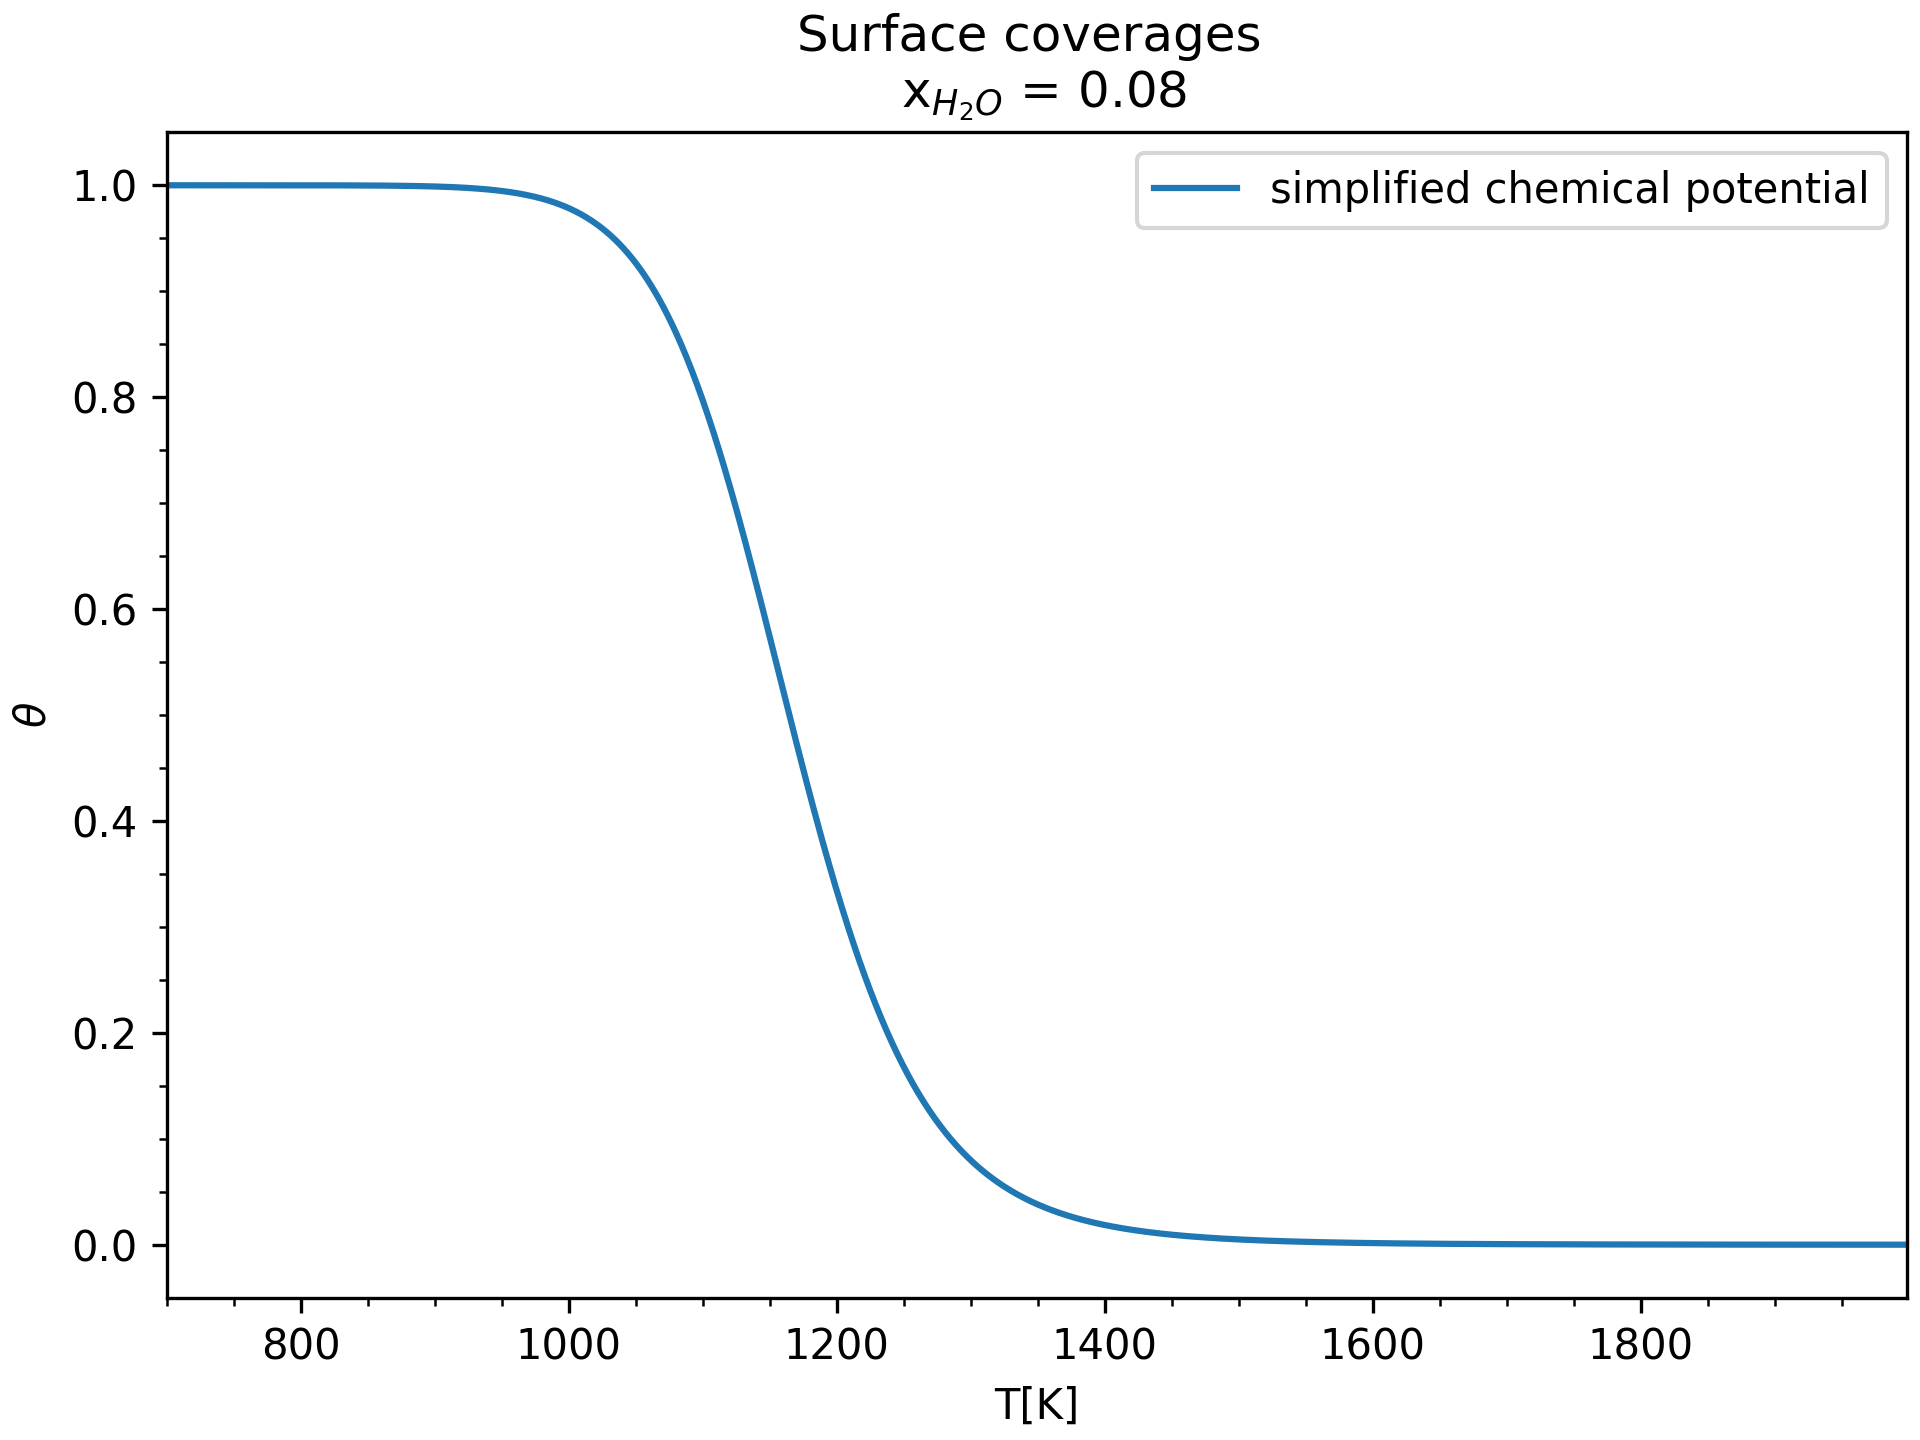
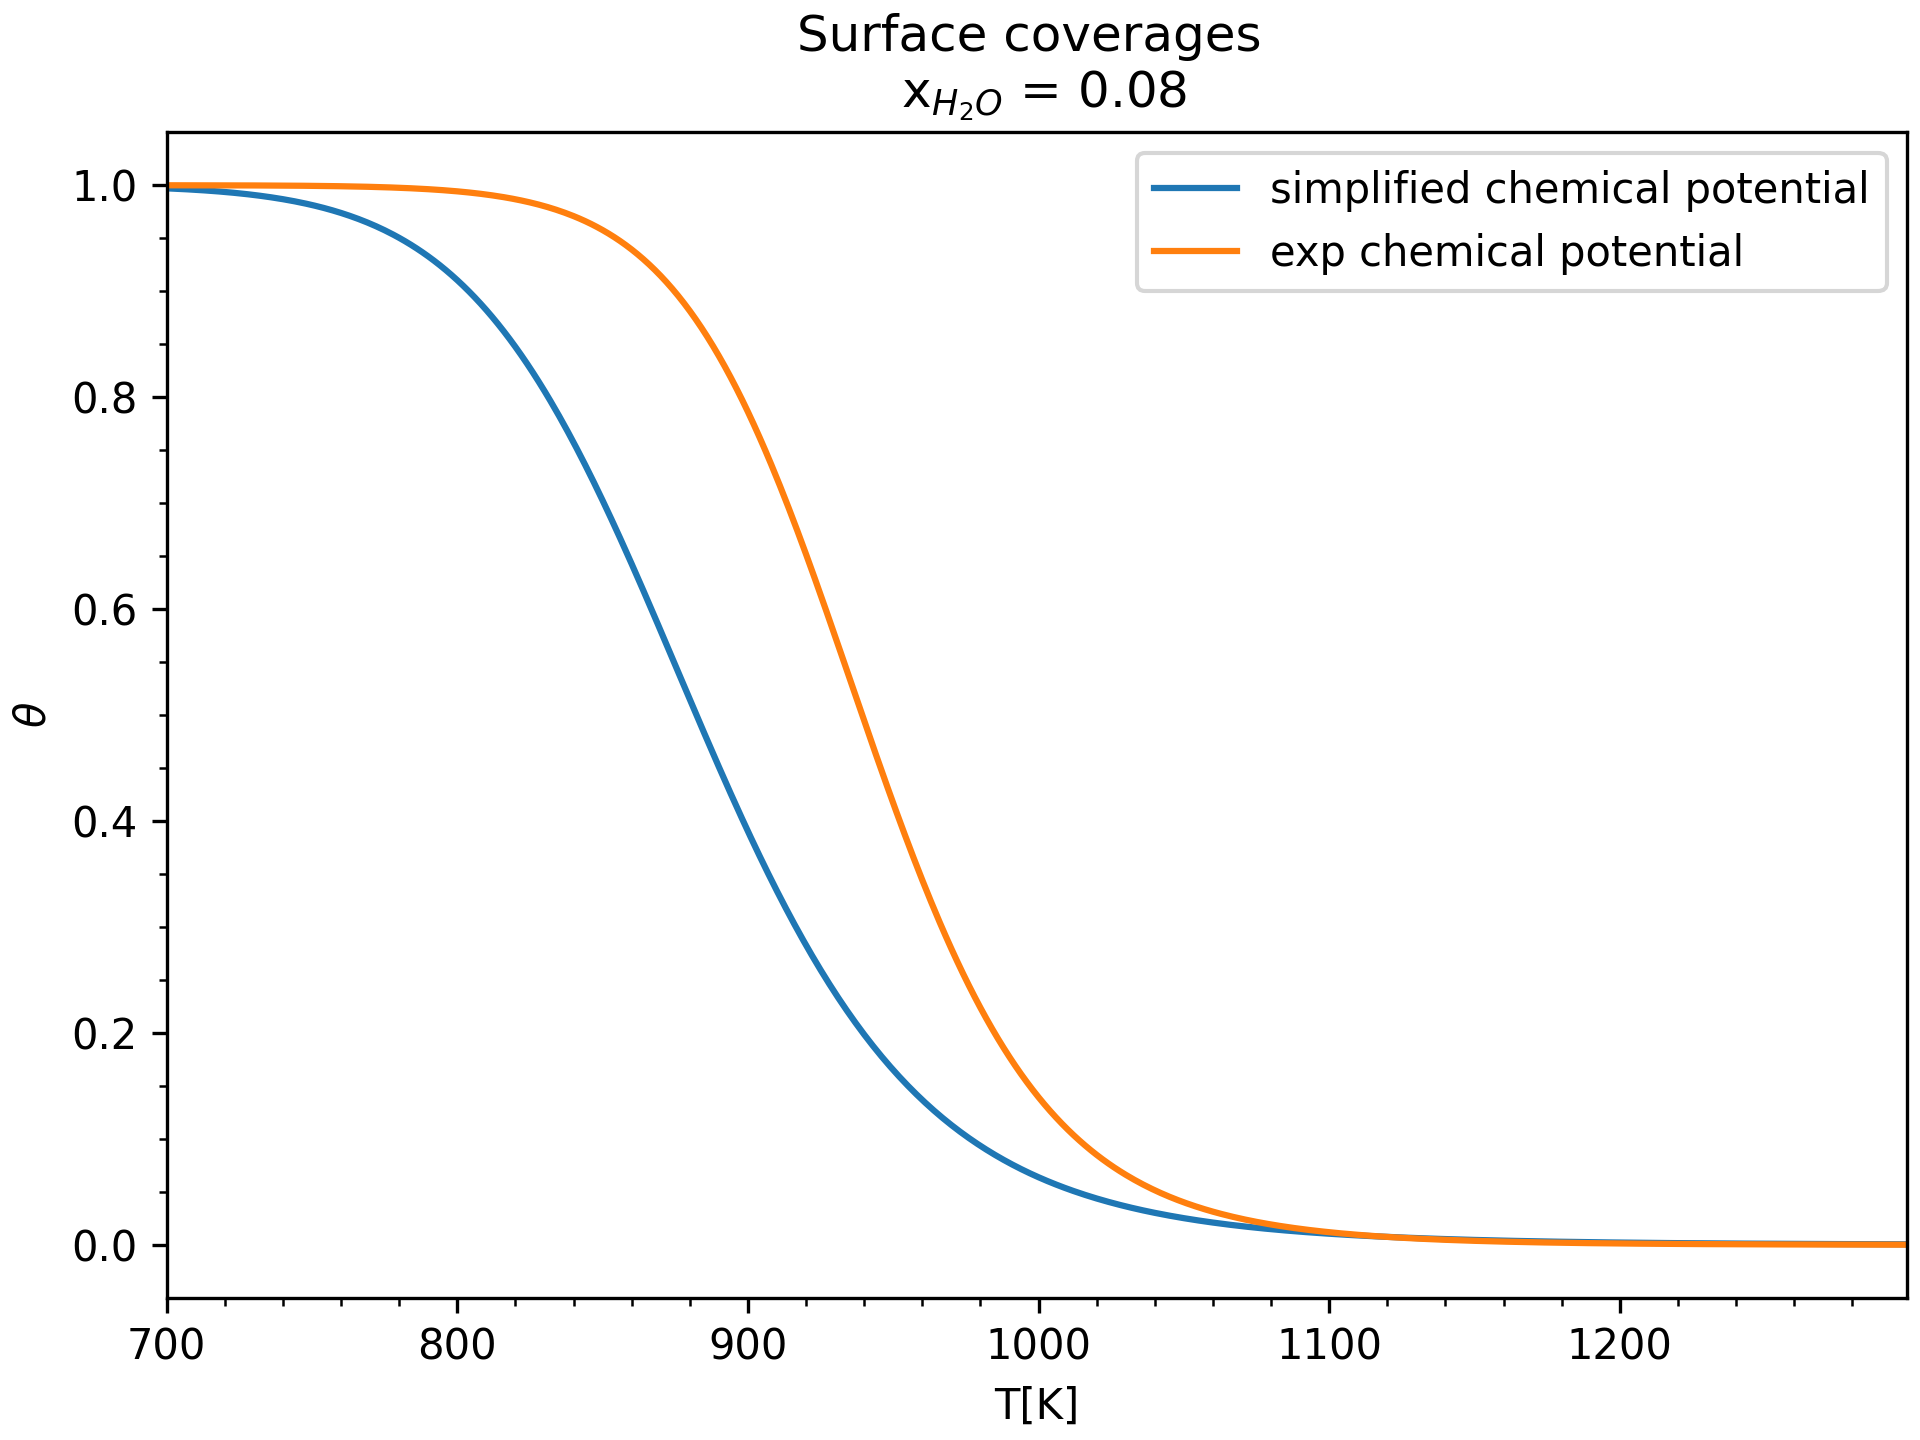
external file modified to visualise surface coverages properly

diff --git a/surface_coverage_hydroxylation.py b/surface_coverage_hydroxylation.py
@@ -21,117 +21,51 @@ oxygen_adsorption *= ev2J_p_mol #J/mol
 
 print("oxygen adsorption ", oxygen_adsorption*N_avagadro)
 print("boltzmann constant in J ", kb)
-
-T_range = np.arange(700, 2000)
-theta_list= []
-theta_alternative = [] #this list is calculated with the experimental chemical potential from nist-janaf tables
-theta_competitive = []
-
-cp_list = []
-O2_cp_list = []
-simplified_cp_list = []
-simplified_O2_cp_list = []
-test = []
-
-original_term = []
-additional_term = []
-
-oxygen_coverage = []
-for T in T_range:
-    P0 = kb*T*(m_H2O*kb*T/(2*np.pi*hbar**2))**(3./2)*np.exp(E_ads/(N_avagadro * kb*T))
-    simplified_cp = np.log(x_H2O *P* 101325/(kb*T*(m_H2O*kb*T/(2*np.pi*hbar**2))**(3./2)))*kb*T #J
-    simplified_O2_cp = np.log(x_O2 *P* 101325/(kb*T*(m_O2*kb*T/(2*np.pi*hbar**2))**(3./2)))*kb*T #J
-    theta = x_H2O * P * 101325/(x_H2O * P * 101325 + P0)
-    theta_list.append(theta)
-    simplified_cp_list.append(simplified_cp)
-    simplified_O2_cp_list.append(simplified_O2_cp)
+print("adsorption energy in eV ", E_ads/ev2J_p_mol)
 
 
-    exp_cp_H2O = cp_H2O(T, E_DFT_H2O=0, P=1) + N_avagadro * kb*T* np.log(x_H2O) #important to have the zero for 
-    exp_term = np.exp(-(-E_ads+exp_cp_H2O)/(kb*T*N_avagadro))
-    theta_alternative.append(1/(1+exp_term))
-    cp_list.append(exp_cp_H2O/N_avagadro)
+def surface_coverage_modified(T, x_H2O, E_ads, P):
+    chemical_potential = cp_H2O(T, E_DFT_H2O=0, P=x_H2O*P) +  zpe_H2O #J/mol
+    #BE CAREFUL YOU NEED TO GET THE CHEMICAL POTENTIAL CORRECTION; IT'S IMPORTANT TO PUT THE DFT ENERGY PARAMETER TO ZERO
+    exp_term = np.exp(-(-E_ads+chemical_potential)/(R*T))
+    theta = 1/(1+exp_term)
+    return theta
 
-    exp_cp_O2 = (cp_O2(T, E_DFT_O2=0, P=1) + N_avagadro * kb*T*np.log(x_O2)) #J/mol
-    O2_cp_list.append(exp_cp_O2)
-    numerator = np.exp((-E_ads + simplified_cp * N_avagadro)/(N_avagadro*kb*T)) * 0.08
-    dinominator = 1 + numerator +  0.21 * np.exp((-oxygen_adsorption + simplified_O2_cp * N_avagadro)/(kb*T*N_avagadro))
-    theta_competitive.append(numerator/dinominator)
-    additional_term.append(np.exp((simplified_O2_cp * N_avagadro)/(kb*T*N_avagadro)))
-    original_term.append(numerator)
-    oxygen_numerator = 0.21 * np.exp((-oxygen_adsorption + simplified_O2_cp * N_avagadro)/(kb*T*N_avagadro))
-    oxygen_coverage.append(oxygen_numerator/dinominator)
 
-theta_list= np.asarray(theta_list)
-theta_alternative = np.asarray(theta_alternative)
-theta_competitive = np.asarray(theta_competitive)
+def langumuir_isotherm(T, x_H2O, E_ads, P):
+    chemical_potential = cp_H2O(T, E_DFT_H2O=0, P=x_H2O*P) +  zpe_H2O #J/mol
+T_range = np.arange(600, 1301)
 
-cp_list = np.asarray(cp_list)
-O2_cp_list = np.asarray(O2_cp_list)
-simplified_cp_list = np.asarray(simplified_cp_list)
-simplified_O2_cp_list = np.asarray(simplified_O2_cp_list)
-test = np.asarray(test)
 
-original_term = np.asarray(original_term)
-additional_term = np.asarray(additional_term)
-oxygen_coverage = np.asarray(oxygen_coverage)
+theta_list_def_model = surface_coverage_H2O(T_range, x_H2O, E_ads, P=1)
+theta_modified = surface_coverage_modified(T_range, x_H2O, E_ads, P=1)
+
 
 
 
 fig,ax = plt.subplots(layout="constrained")
-fig2, ax2 = plt.subplots(layout="constrained")
-fig3, ax3 = plt.subplots(layout="constrained")
-fig4, ax4 = plt.subplots(layout="constrained")
 
 
-ax.plot(T_range, theta_list, label="simplified chemical potential")
-#ax.plot(T_range, theta_alternative, label="exp chemical potential")
-#ax.plot(T_range, theta_competitive, label="competetive adsorption")
-#ax.plot(T_range, oxygen_coverage, label="oxygen coverage")
+ax.plot(T_range, theta_list_def_model, label="in def model")
+ax.plot(T_range, theta_modified, label="modified")
 
-ax.set_ylabel("$\\theta$")
-ax.set_xlabel("T[K]")
-#ax.set_ylim(-0.1,1.1)
+
+#x_H2O_range = np.linspace(0.02,1,5)
+#for x_H2O in x_H2O_range:
+#    theta_list = surface_coverage_H2O(T_range, x_H2O, E_ads, P=1)
+#    ax.plot(T_range, theta_list_def_model, label="$x_{H_2O} = $" + str(x_H2O))
+
 ax.set_xlim(T_range[0], T_range[-1])
-ax.set_title("Surface coverages \n x$_{H_2O}$ = " + str(x_H2O))
+ax.set_ylim(0,1.01)
 
-ax.legend(loc="upper right", facecolor="none")
+ax.set_xlabel("T [K]")
+ax.set_ylabel("$\\theta_{H_2O}$")
 
 ax.xaxis.set_minor_locator(AutoMinorLocator())
 ax.yaxis.set_minor_locator(AutoMinorLocator())
+#ax.set_xticks([min(T_range), max(T_range)])
+#ax.set_xticklabels([f'{min(T_range)}', f'{max(T_range)}'])
+ax.legend()
 
-ax2.plot(T_range, simplified_cp_list/ev2J, label="translation H2O chemical potential")
-ax2.plot(T_range, (simplified_O2_cp_list)/ev2J, label="translation O2 chemical potential")
-ax2.plot(T_range, (cp_list)/ev2J, label="exp H2O chemical potential")
-ax2.plot(T_range, (O2_cp_list)/ev2J_p_mol, label="exp O2 chemical potential")
-ax2.legend(loc="lower left", facecolor="none")
-ax2.set_ylabel("chemical potentials [eV]")
-ax2.set_xlabel("T[K]")
-#ax2.set_ylim(-0.1,1.1)
-ax2.set_xlim(T_range[0],T_range[-1])
-ax2.set_title("chemical potentials")
-
-ax2.xaxis.set_minor_locator(AutoMinorLocator())
-ax2.yaxis.set_minor_locator(AutoMinorLocator())
-
-ax3.plot(T_range, additional_term/(original_term))
-#ax3.plot(T_range, original_term)
-
-ax3.set_xlabel("T[K]")
-ax3.set_ylabel("ration of exp terms")
-
-
-ax4.plot(T_range, original_term, label="orignal term")
-ax4.plot(T_range, additional_term, label="additional term")
-
-ax4.set_xlabel("T[K]")
-ax4.set_ylabel("exp terms")
-ax4.legend()
-
-
-fig.savefig("surface_coverage.png", dpi=300, transparent=True)
-
-#simplified cp slope
-print("slope of cp in J/K: ", (simplified_cp_list[1]-simplified_cp_list[0])/(T_range[1]-T_range[2]))
-
+fig.savefig("surf_coverage.svg", format="svg", dpi=300, transparent=True)
 plt.show()
